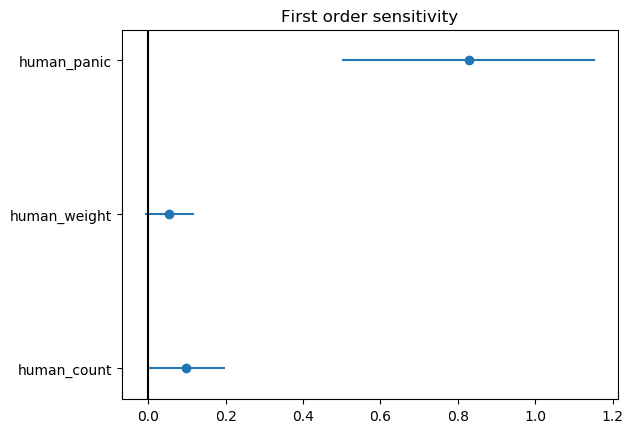
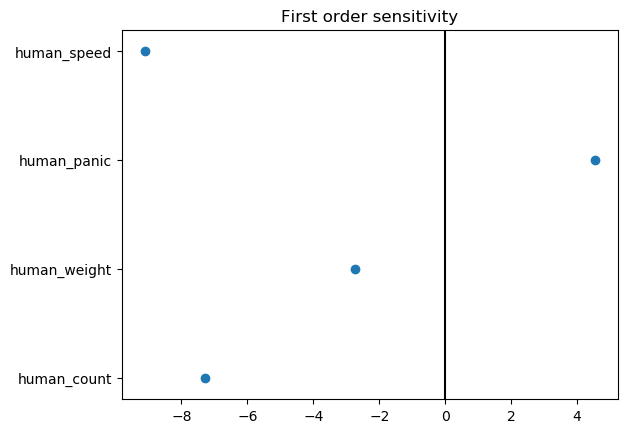
Added speed to batchrunner, also added sliders to visualization

diff --git a/discrete/model.py b/discrete/model.py
@@ -9,7 +9,7 @@ from mesa.datacollection import DataCollector
 from scheduler import DistanceScheduler
 
 class Classroom(Model):
-	def __init__(self, human_count, human_weight=3, human_panic=0.0, floorplan='0'):
+	def __init__(self, human_count, human_weight=3, human_panic=0.0, human_speed=3, floorplan='0'):
 		super().__init__()
 		self.n_agents = human_count
 		self.agents = []
@@ -48,7 +48,7 @@ class Classroom(Model):
 		# Spawn n_agents according to floorplan
 		for pos in random.sample(self.spawn_list, self.n_agents):
 		# for pos in self.spawn_list:
-			self.new_agent(Human, pos, human_weight, human_panic)
+			self.new_agent(Human, pos, human_weight, human_panic, human_speed)
 
 
 		# Collects statistics from our model run
@@ -63,11 +63,12 @@ class Classroom(Model):
 		# 	if type(human) is Human:
 		# 		human.dijkstra()
 
-	def new_agent(self, agent_type, pos, weight, panic=False):
+	def new_agent(self, agent_type, pos, weight, human_panic= 0.0, human_speed = 3):
 		'''
 		Method that creates a new agent, and adds it to the correct scheduler.
 		'''
-		agent = agent_type(self, pos, weight, panic) if panic else agent_type(self, pos, weight) 
+		human_panic = human_panic / 10
+		agent = agent_type(self, pos, weight, human_panic, human_speed) if agent_type == 'Human' else agent_type(self, pos, weight)
 		self.grid.place_agent(agent, pos)
 		if agent_type.__name__ in self.schedules:
 			# getattr(self, f'schedule_{agent_type.__name__}').add(agent)

diff --git a/discrete/server.py b/discrete/server.py
@@ -57,13 +57,9 @@ floor_plans = [f for f in listdir("../floorplans")]
 model_params = {
     "floorplan": UserSettableParameter("choice", "Floorplan", value=floor_plans[0], choices=floor_plans),
     "human_count": UserSettableParameter("slider", "Number Of Human Agents", 10, 1, 80),
-    #"random_spawn": UserSettableParameter('checkbox', 'Spawn Agents at Random Locations', value=True),
-    #"save_plots": UserSettableParameter('checkbox', 'Save plots to file', value=True)
+    "human_panic": UserSettableParameter("slider", "Panic", 0, 0, 7),
+    "human_speed": UserSettableParameter("slider", "Maximum speed", 3, 1, 5),
 }
-
-# Start the visual server with the model
-#server = ModularServer(Classroom, [canvas_element], "Fire Evacuation",
-#                       model_params)
 
 """With status chart"""
 server = ModularServer(Classroom, [canvas_element, status_chart], "Fire Evacuation", model_params)

diff --git a/discrete/Batchrunner.py b/discrete/Batchrunner.py
@@ -13,14 +13,14 @@ from itertools import combinations
 
 floor_plans = [f for f in listdir("../floorplans")]
 
-variables = {'num_vars': 3,
-             'names': ['human_count', 'human_weight', 'human_panic'],
-             'bounds': [[10, 40], [1, 3], [0, 0.7]]}
+variables = {'num_vars': 4,
+             'names': ['human_count', 'human_weight', 'human_panic', 'human_speed'],
+             'bounds': [[10, 80], [1, 3], [0, 0.7], [1, 3]]}
 
 # Set the repetitions, the amount of steps, and the amount of distinct values per variable
-replicates = 10
+replicates = 1
 max_steps = 1000
-distinct_samples = 5
+distinct_samples = 1
 
 # We get all our samples here
 param_values = saltelli.sample(variables, distinct_samples)

diff --git a/discrete/agents.py b/discrete/agents.py
@@ -46,12 +46,12 @@ class Exit(Objects):
         super().__init__(model, pos, weight)
 
 class Human(Objects):
-    def __init__(self, model, pos, weight, panic = 0):
+    def __init__(self, model, pos, weight, panic = 0, max_speed = 3):
         super().__init__(model, pos, weight)
         getattr(model, f'schedule_{self.__class__.__name__}').add(self)
         self.path = self.dijkstra()
         self.speed = 1
-        self.max_speed = 3
+        self.max_speed = max_speed
         self.panic = random.random() * panic if panic < 1 else random.random()
 
     def dijkstra(self):
